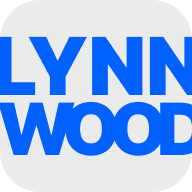
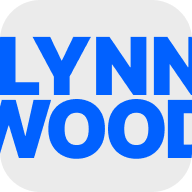
Bug fix
- Bug fix
- adding FH street car to priority list
- PWA Logo updates

diff --git a/PWA/caphill/index.html b/PWA/caphill/index.html
@@ -93,7 +93,7 @@ footer a{color:#3b82f6;text-decoration:none}
   </header>
   <div class="results" id="results"><div class="loading">Loading…</div></div>
   <footer>
-    <span>Data from <a href="https://onebusaway.org" target="_blank">OneBusAway</a> · v3.3</span>
+    <span>Data from <a href="https://onebusaway.org" target="_blank">OneBusAway</a> · v3.4</span>
     <span id="updated"></span>
   </footer>
 </div>
@@ -280,7 +280,7 @@ async function update(){
     }
     // Sort by earliest upcoming ETA
     // Sort: prioritized routes first, then by earliest ETA
-    const priority=["1","2","8","49","11","12"];
+    const priority=["1","2","8","49","11","12","First Hill"];
     const sorted=Object.values(routeCache).sort((a,b)=>{
       const aP=priority.indexOf(a.route);
       const bP=priority.indexOf(b.route);
@@ -297,7 +297,7 @@ async function update(){
   if(!cache.length){
     el.innerHTML='<div class="loading" style="grid-column:1/-1;text-align:center;font-size:20px;padding:40px">No transit results found</div>';
   } else {
-    const priRoutes=["1","2","8","49","11","12"];
+    const priRoutes=["1","2","8","49","11","12","First Hill"];
     const priCards=cache.filter(g=>priRoutes.includes(g.route));
     const otherCards=cache.filter(g=>!priRoutes.includes(g.route));
     let html=priCards.map(renderCard).join("");
@@ -378,7 +378,7 @@ async function preload(){
     }
   }
   // Render preloaded data
-  const priority=["1","2","8","49","11","12"];
+  const priority=["1","2","8","49","11","12","First Hill"];
   const sorted=Object.values(routeCache).sort((a,b)=>{
     const aP=priority.indexOf(a.route);const bP=priority.indexOf(b.route);
     const aPri=aP>=0?0:1;const bPri=bP>=0?0:1;

diff --git a/caphill.html b/caphill.html
@@ -88,7 +88,7 @@ footer a{color:#3b82f6;text-decoration:none}
   </header>
   <div class="results" id="results"><div class="loading">Loading…</div></div>
   <footer>
-    <span>Data from <a href="https://onebusaway.org" target="_blank">OneBusAway</a> · v3.3</span>
+    <span>Data from <a href="https://onebusaway.org" target="_blank">OneBusAway</a> · v3.4</span>
     <span id="updated"></span>
   </footer>
 </div>
@@ -275,7 +275,7 @@ async function update(){
     }
     // Sort by earliest upcoming ETA
     // Sort: prioritized routes first, then by earliest ETA
-    const priority=["1","2","8","49","11","12"];
+    const priority=["1","2","8","49","11","12","First Hill"];
     const sorted=Object.values(routeCache).sort((a,b)=>{
       const aP=priority.indexOf(a.route);
       const bP=priority.indexOf(b.route);
@@ -292,7 +292,7 @@ async function update(){
   if(!cache.length){
     el.innerHTML='<div class="loading" style="grid-column:1/-1;text-align:center;font-size:20px;padding:40px">No transit results found</div>';
   } else {
-    const priRoutes=["1","2","8","49","11","12"];
+    const priRoutes=["1","2","8","49","11","12","First Hill"];
     const priCards=cache.filter(g=>priRoutes.includes(g.route));
     const otherCards=cache.filter(g=>!priRoutes.includes(g.route));
     let html=priCards.map(renderCard).join("");
@@ -373,7 +373,7 @@ async function preload(){
     }
   }
   // Render preloaded data
-  const priority=["1","2","8","49","11","12"];
+  const priority=["1","2","8","49","11","12","First Hill"];
   const sorted=Object.values(routeCache).sort((a,b)=>{
     const aP=priority.indexOf(a.route);const bP=priority.indexOf(b.route);
     const aPri=aP>=0?0:1;const bPri=bP>=0?0:1;

diff --git a/PWA/lynnwood/index.html b/PWA/lynnwood/index.html
@@ -86,7 +86,7 @@ footer a{color:#3b82f6;text-decoration:none}
   </header>
   <div class="results" id="results"><div class="loading">Loading…</div></div>
   <footer>
-    <span>Data from <a href="https://onebusaway.org" target="_blank">OneBusAway</a> · v3.3</span>
+    <span>Data from <a href="https://onebusaway.org" target="_blank">OneBusAway</a> · v3.4</span>
     <span id="updated"></span>
   </footer>
 </div>

diff --git a/lynnwood.html b/lynnwood.html
@@ -86,7 +86,7 @@ footer a{color:#3b82f6;text-decoration:none}
   </header>
   <div class="results" id="results"><div class="loading">Loading…</div></div>
   <footer>
-    <span>Data from <a href="https://onebusaway.org" target="_blank">OneBusAway</a> · v3.3</span>
+    <span>Data from <a href="https://onebusaway.org" target="_blank">OneBusAway</a> · v3.4</span>
     <span id="updated"></span>
   </footer>
 </div>
